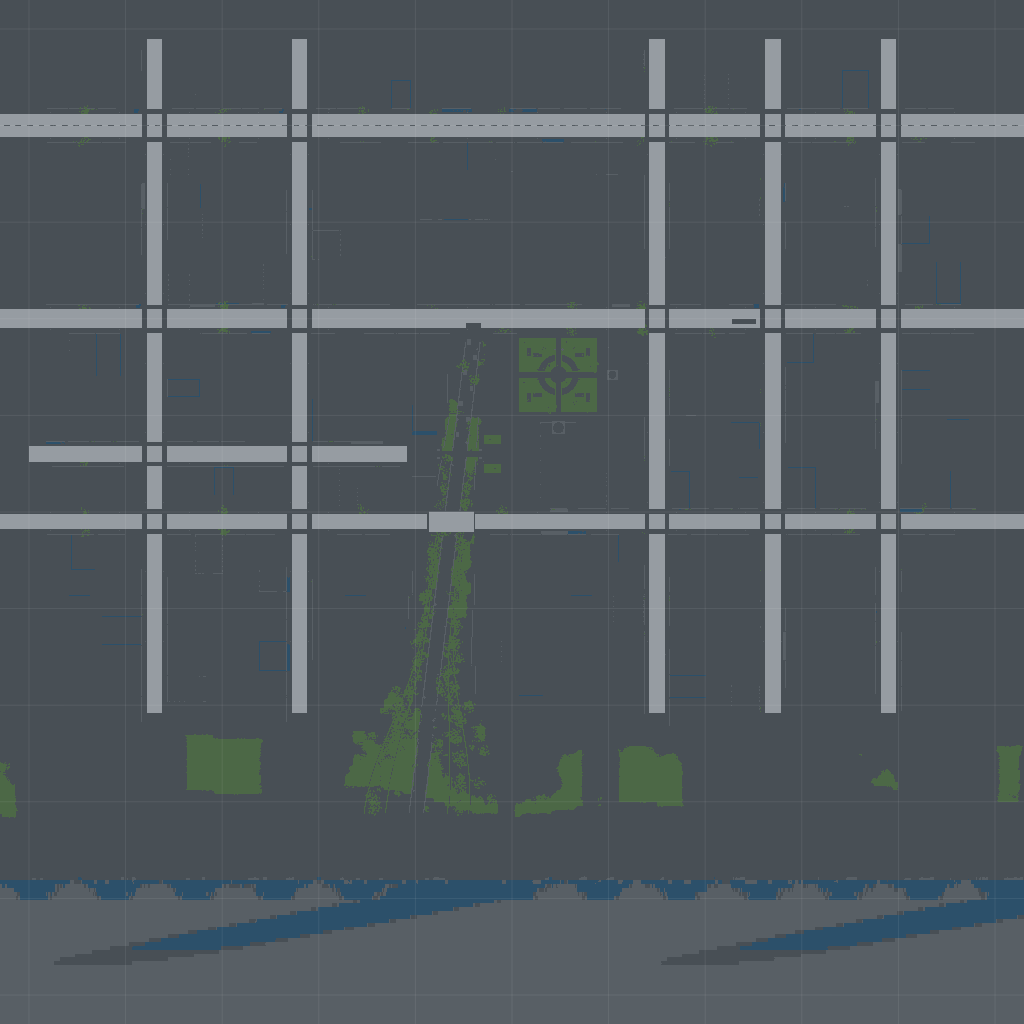
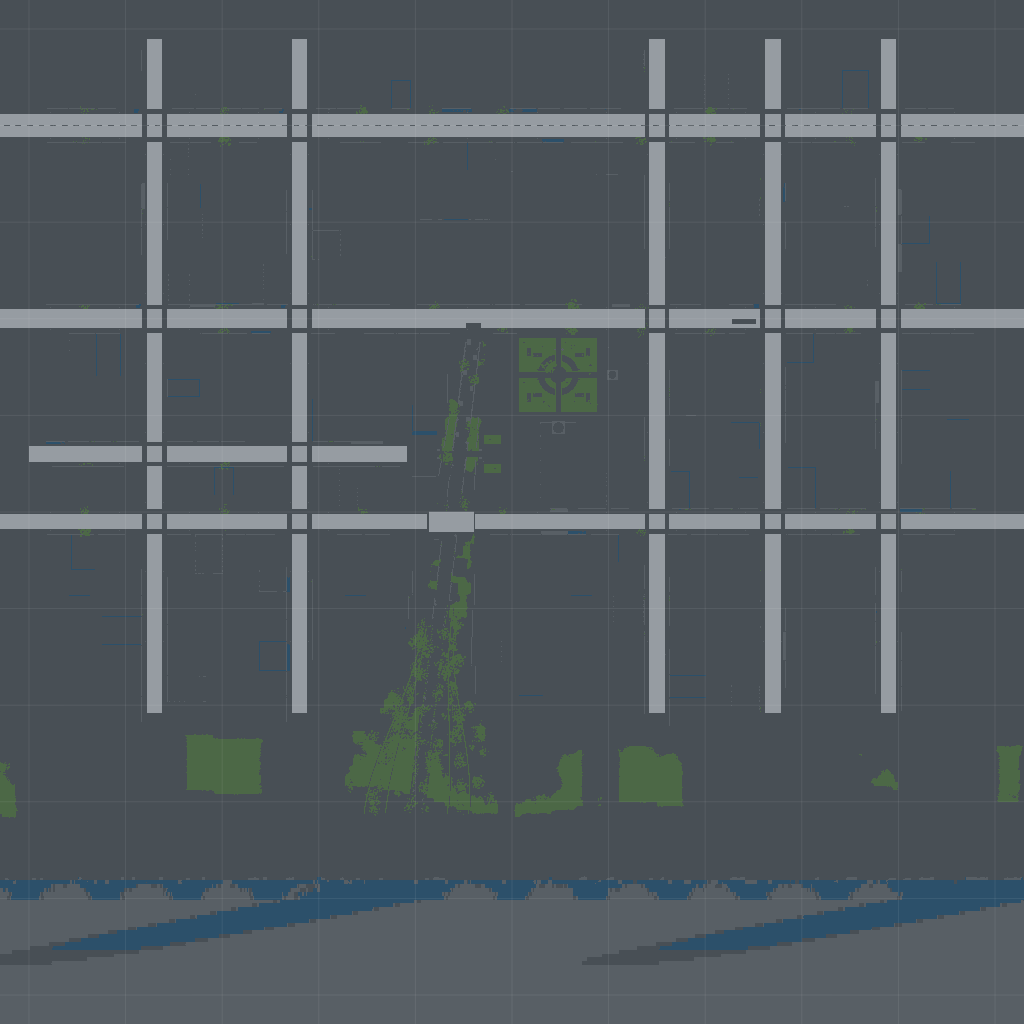
Bajada de Baños según Street View: adoquín de concreto, casonas a ras del camino, jardineras, canto rodado, líneas amarillas y puestos de artesanos
Claude-Session: https://claude.ai/code/session_01Gb2c1RtCEMNtPZBAUvxZ9S

diff --git a/client/src/world/barranco/bajada.ts b/client/src/world/barranco/bajada.ts
@@ -6,14 +6,9 @@ import { edgeZ, ravineCentre, ravineFloor, ravineHalf, type CoastDef } from '../
 import { bench, type Plants } from '../malecon/park';
 import { globeLamp } from './bridge';
 import { muralSpan, ravineOf, type BarrancoDef } from './layout';
+import { laneEdge, laneHouses, laneLine, run } from './bajadaLane';
 
 const UP = new THREE.Vector3(0, 1, 0);
-
-/** Box from a to c, `w` wide and `h` tall, aligned with the line between them. */
-function run(b: Builder, mat: string, a: THREE.Vector3, c: THREE.Vector3, w: number, h: number, collide = true): void {
-  const d = c.clone().sub(a), len = d.length();
-  b.box(mat, [w, h, len + 0.05], a.clone().lerp(c, 0.5), new THREE.Quaternion().setFromUnitVectors(new THREE.Vector3(0, 0, 1), d.normalize()), collide);
-}
 
 /** Street-art vault: a sun, faces in profile, birds and the lettering over the arch (canvas). */
 function muralTexture(): THREE.CanvasTexture {
@@ -42,30 +37,34 @@ function muralTexture(): THREE.CanvasTexture {
  * lamps, stone stairs up the planted banks, artisans' white stalls in the upper stretch, benches and trees, and the
  * street bridge whose vault is painted end to end. Returns the textured meshes (the vault mural).
  */
-export function bajadaDeBanos(b: Builder, hf: Heightfield, def: BarrancoDef, c: CoastDef, plants: Plants, lighting: Lighting): THREE.Object3D {
+export function bajadaDeBanos(b: Builder, hf: Heightfield, def: BarrancoDef, c: CoastDef, plants: Plants, lighting: Lighting, bb: Builder): THREE.Object3D {
   const r = ravineOf(c), mouth = edgeZ(c, r.x) + c.run, half = (r.floorHalf ?? 4) - 0.2, end = def.beachRoad.z - def.beachRoad.half;
   const centre: THREE.Vector2[] = [];
   for (let z = r.head - 8; z <= end; z += 1.5) centre.push(new THREE.Vector2(ravineCentre(r, Math.min(Math.max(z, r.head), mouth)), z));
   for (let k = 1; k < centre.length; k++) {
     const a = centre[k - 1], e = centre[k], fa = ravineFloor(c, r, Math.min(a.y, mouth)) + 0.06 - 0.25, fe = ravineFloor(c, r, Math.min(e.y, mouth)) + 0.06 - 0.25;
-    run(b, 'cobble', new THREE.Vector3(a.x, fa, a.y), new THREE.Vector3(e.x, fe, e.y), half * 2 + 0.9, 0.5);
+    run(b, 'pavers', new THREE.Vector3(a.x, fa, a.y), new THREE.Vector3(e.x, fe, e.y), half * 2 + 0.9, 0.5);
   }
-  for (const s of [-1, 1]) for (let k = 1; k < centre.length; k++) {
-    const a = centre[k - 1], e = centre[k], fa = ravineFloor(c, r, Math.min(a.y, mouth)) + 0.07, fe = ravineFloor(c, r, Math.min(e.y, mouth)) + 0.07;
-    run(b, 'stairStone', new THREE.Vector3(a.x + s * (half - 0.15), fa, a.y), new THREE.Vector3(e.x + s * (half - 0.15), fe, e.y), 0.3, 0.06, false);
-  }
-  const group = new THREE.Group(), m = muralSpan(c, def);
+  const group = new THREE.Group(), m = muralSpan(c, def), stairZ = [def.bridge.z - 9, def.bridge.z + 7, def.bridge.z + 26, def.bridge.z - 22], upper = def.bridge.z + 9;
+  const houses = laneHouses(bb, c, r, def, upper, (r.knee?.z ?? mouth - 30) - 4, [...stairZ, m.z, m.z + def.mural.half, m.z - def.mural.half]);
+  const housed = (z: number, zn: number, s: number) => houses.some((h) => h.s === s && h.z0 < zn && h.z1 > z);
   for (let z = r.head + 2, i = 0; z < mouth - 3; z += 4, i++) {
     const zn = z + 4, f = ravineFloor(c, r, z), fn = ravineFloor(c, r, zn);
     if (Math.abs(z - m.z) < def.mural.half + 3) continue;
     for (const s of [-1, 1]) {
-      const a = new THREE.Vector3(ravineCentre(r, z) + s * (half + 0.35), f + 0.9, z), e = new THREE.Vector3(ravineCentre(r, zn) + s * (half + 0.35), fn + 0.9, zn);
-      run(b, 'ochreWall', a.clone().setY(f + 0.4), e.clone().setY(fn + 0.4), 0.45, 2.4);
-      run(b, 'creamCornice', a.clone().setY(f + 1.65), e.clone().setY(fn + 1.65), 0.6, 0.1, false);
+      const a = new THREE.Vector3(ravineCentre(r, z) + s * (half + 0.35), f + 0.9, z), e = new THREE.Vector3(ravineCentre(r, zn) + s * (half + 0.35), fn + 0.9, zn), home = housed(z, zn, s);
+      const stairsHere = stairZ.map((sz, k) => [sz, k % 2 ? -1 : 1]).some(([sz, ss]) => ss === s && sz > z - 2.5 && sz < zn + 2.5);
+      if (stairsHere) laneLine(bb, c, r, z, zn, s, 0.12);
+      else if (z < upper) {
+        run(b, 'ochreWall', a.clone().setY(f + 0.4), e.clone().setY(fn + 0.4), 0.45, 2.4);
+        run(b, 'creamCornice', a.clone().setY(f + 1.65), e.clone().setY(fn + 1.65), 0.6, 0.1, false);
+      } else if (!home) laneEdge(bb, c, r, z, zn, s, i, plants);
+      if (!stairsHere) laneLine(bb, c, r, z, zn, s, z < upper || home ? 0.12 : 1.02);
       if (i % 3 === 1 && s === (i % 6 === 1 ? 1 : -1)) globeLamp(b, new THREE.Vector3(a.x - s * 0.7, f + 0.1, z));
       if (i % 7 === 4) bench(b, new THREE.Vector3(a.x - s * 0.9, f + 0.1, z + 1), s > 0 ? -Math.PI / 2 : Math.PI / 2);
       if (i % 7 === 4) plants.seats.push({ pos: new THREE.Vector3(a.x - s * 0.9, f + 0.55, z + 1), yaw: s > 0 ? -Math.PI / 2 : Math.PI / 2 });
       const bank = ravineHalf(c, r, z) - 2.5;
+      if (home) continue;
       if (i % 3 === s + 1) (i % 2 ? plants.trees : plants.palms).push(new THREE.Vector3(ravineCentre(r, z) + s * bank, hf.heightAt(ravineCentre(r, z) + s * bank, z), z));
       else if (bank > half + 3) {
         const bx = ravineCentre(r, z) + s * (half + 1.6 + (bank - half - 1.6) * ((i * 7) % 5) / 5), by = hf.heightAt(bx, z + 2);
@@ -75,8 +74,7 @@ export function bajadaDeBanos(b: Builder, hf: Heightfield, def: BarrancoDef, c: 
         }
         if (i % 2) plants.trees.push(new THREE.Vector3(bx, by, z - 1));
       }
-      const stairsHere = [[def.bridge.z - 9, 1], [def.bridge.z + 7, -1], [def.bridge.z + 26, 1], [def.bridge.z - 22, -1]].some(([sz, ss]) => ss === s && sz > z - 2.5 && sz < zn + 2.5);
-      if (!stairsHere && Math.abs(z - def.bridge.z) > 5) terrace(b, hf, c, r, z, zn, s, i);
+      if (!stairsHere && Math.abs(z - def.bridge.z) > 5) terrace(bb, hf, c, r, z, zn, s, i);
     }
     if (z < def.bridge.z - 4 && i % 2 === 0) stall(b, new THREE.Vector3(ravineCentre(r, z) + (i % 4 ? 1 : -1) * (half - 1.2), f + 0.1, z), i % 4 ? -1 : 1, plants, i);
   }
@@ -86,11 +84,20 @@ export function bajadaDeBanos(b: Builder, hf: Heightfield, def: BarrancoDef, c: 
   return group;
 }
 
-/** Artisan's stall: white canopy on four poles over a cloth-covered table, a vendor behind it. */
+/** Artisan's stall: white canopy on four poles over a table whose cloth hangs to the ground, crafts laid out on top, a vendor behind it. */
 function stall(b: Builder, at: THREE.Vector3, side: number, plants: Plants, i: number): void {
   for (const [x, z] of [[-0.9, -1.2], [0.9, -1.2], [-0.9, 1.2], [0.9, 1.2]]) b.box('alu', [0.05, 2.2, 0.05], at.clone().add(new THREE.Vector3(x, 1.1, z)), new THREE.Quaternion(), false);
   b.box('tentWhite', [2.0, 0.06, 2.6], at.clone().add(new THREE.Vector3(0, 2.25, 0)), new THREE.Quaternion(), false);
-  b.box(['awningRed', 'trimBlue', 'trimGreen'][i % 3], [1.6, 0.8, 2.2], at.clone().add(new THREE.Vector3(0, 0.4, 0)), new THREE.Quaternion());
+  const cloth = ['awningRed', 'trimBlue', 'trimGreen'][i % 3], q = new THREE.Quaternion();
+  b.box('trimBrown', [1.5, 0.05, 2.1], at.clone().add(new THREE.Vector3(0, 0.78, 0)), q);
+  b.box(cloth, [1.56, 0.02, 2.16], at.clone().add(new THREE.Vector3(0, 0.815, 0)), q, false);
+  for (const s of [-1, 1]) b.box(cloth, [0.02, 0.55, 2.16], at.clone().add(new THREE.Vector3(s * 0.78, 0.55, 0)), q, false);
+  for (const s of [-1, 1]) b.box(cloth, [1.56, 0.55, 0.02], at.clone().add(new THREE.Vector3(0, 0.55, s * 1.08)), q, false);
+  b.box('none', [1.5, 0.8, 2.1], at.clone().add(new THREE.Vector3(0, 0.4, 0)), q);
+  for (let k = 0; k < 9; k++) {
+    const w = 0.12 + ((k * 7 + i) % 5) * 0.04, h = 0.05 + ((k * 3 + i) % 4) * 0.05;
+    b.box(['trimWhite', 'awningRed', 'paint-ochre', 'trimBlue', 'paint-seagreen', 'flowers'][(k + i) % 6], [w, h, w * 1.2], at.clone().add(new THREE.Vector3(-0.5 + (k % 3) * 0.5, 0.83 + h / 2, -0.75 + Math.floor(k / 3) * 0.75)), new THREE.Quaternion().setFromAxisAngle(UP, k * 0.7), false);
+  }
   plants.standing.push({ pos: at.clone().add(new THREE.Vector3(side * -1.3, 0, 0)), yaw: side > 0 ? Math.PI / 2 : -Math.PI / 2, key: i % 3 ? 'civ_idle' : 'texting' });
 }
 
@@ -137,7 +144,7 @@ function terrace(b: Builder, hf: Heightfield, c: CoastDef, r: ReturnType<typeof 
   for (const k of [0.35, 0.68]) {
     const xa = ravineCentre(r, z) + s * (inner + (outer(z) - inner) * k), xb = ravineCentre(r, zn) + s * (inner + (outer(zn) - inner) * k);
     const a = new THREE.Vector3(xa, hf.heightAt(xa, z), z), e = new THREE.Vector3(xb, hf.heightAt(xb, zn), zn);
-    run(b, 'ochreWall', a.clone().setY(a.y - 0.4), e.clone().setY(e.y - 0.4), 0.3, 1.2);
+    run(b, 'pirca', a.clone().setY(a.y - 0.4), e.clone().setY(e.y - 0.4), 0.4, 1.3);
     run(b, 'hedge', a.clone().setY(a.y + 0.45).add(new THREE.Vector3(-s * 0.45, 0, 0)), e.clone().setY(e.y + 0.45).add(new THREE.Vector3(-s * 0.45, 0, 0)), 0.6, 0.55, false);
   }
   if (i % 3 !== 1) treesOnBank.push(new THREE.Vector3(ravineCentre(r, z) + s * (inner + (outer(z) - inner) * 0.52), 0, z + 2));

diff --git a/client/src/world/barranco/bajadaLane.ts b/client/src/world/barranco/bajadaLane.ts
@@ -1,0 +1,80 @@
+import * as THREE from 'three';
+import type { Builder } from '../buildingKit';
+import { ravineCentre, ravineFloor, type CoastDef } from '../coast';
+import type { Plants } from '../malecon/park';
+import { casona } from './casona';
+import { mulberry32 } from '../../core/rng';
+import type { BarrancoDef } from './layout';
+
+type Ravine = NonNullable<CoastDef['ravines']>[number];
+export interface HouseSpan { z0: number; z1: number; s: number }
+
+/** Box from a to c, `w` wide and `h` tall, aligned with the line between them. */
+export function run(b: Builder, mat: string, a: THREE.Vector3, c: THREE.Vector3, w: number, h: number, collide = true): void {
+  const d = c.clone().sub(a), len = d.length();
+  b.box(mat, [w, h, len + 0.05], a.clone().lerp(c, 0.5), new THREE.Quaternion().setFromUnitVectors(new THREE.Vector3(0, 0, 1), d.normalize()), collide);
+}
+
+/**
+ * Street View (2013) of the middle stretch: the lane runs between houses built into the banks — painted casonas of one
+ * or two storeys whose steps come down onto the pavers, a restaurant terrace here and there. Places them on both sides
+ * between the bridge and the knee of the ravine, clear of the stairways and the painted vault; returns their spans.
+ */
+export function laneHouses(b: Builder, c: CoastDef, r: Ravine, def: BarrancoDef, from: number, to: number, keepOut: number[]): HouseSpan[] {
+  const rand = mulberry32(def.seed + 404), half = (r.floorHalf ?? 4) - 0.2, spans: HouseSpan[] = [];
+  for (const s of [-1, 1]) {
+    let z = from + rand() * 4;
+    while (z < to) {
+      const w = 7.5 + rand() * 3.5, zc = z + w / 2;
+      if (zc + w / 2 > to) break;
+      if (keepOut.some((k) => Math.abs(k - zc) < w / 2 + 3) || rand() < 0.18) {
+        z += 3 + rand() * 3;
+        continue;
+      }
+      const slope = ravineCentre(r, zc + 1) - ravineCentre(r, zc), fx = ravineCentre(r, zc) + s * (half + 0.45);
+      casona(b, { x: fx, z: zc, y: ravineFloor(c, r, zc) + 0.06, facing: Math.atan2(-s, s * slope), w, d: 7, floors: rand() < 0.55 ? 1 : 2 }, rand);
+      spans.push({ z0: z - 1, z1: z + w + 1, s });
+      z += w + 1 + rand() * 2.5;
+    }
+  }
+  return spans;
+}
+
+/**
+ * Where no house fronts the lane: a low concrete kerb, a bed of soil with clipped shrubs, red-flowered bushes, an agave
+ * and now and then a tree with a whitewashed trunk, backed by a river-stone (canto rodado) retaining wall.
+ */
+export function laneEdge(b: Builder, c: CoastDef, r: Ravine, z: number, zn: number, s: number, i: number, plants: Plants): void {
+  const half = (r.floorHalf ?? 4) - 0.2, f = ravineFloor(c, r, z), fn = ravineFloor(c, r, zn);
+  const P = (zz: number, o: number, y: number) => new THREE.Vector3(ravineCentre(r, zz) + s * o, y, zz);
+  run(b, 'stairStone', P(z, half - 0.9, f + 0.1), P(zn, half - 0.9, fn + 0.1), 0.16, 0.2);
+  run(b, 'soilBed', P(z, half - 0.15, f + 0.07), P(zn, half - 0.15, fn + 0.07), 1.35, 0.16, false);
+  run(b, 'pirca', P(z, half + 0.75, f + 0.45), P(zn, half + 0.75, fn + 0.45), 0.7, 1.9);
+  const g = mulberry32(i * 31 + (s > 0 ? 7 : 3));
+  for (let k = 0; k < 3; k++) {
+    const t = (k + 0.3 + g() * 0.4) / 3, zz = z + (zn - z) * t, p = P(zz, half - 0.2 + (g() - 0.5) * 0.4, f + (fn - f) * t + 0.14), r0 = 0.3 + g() * 0.18;
+    const mat = (i + k) % 5 === 0 ? 'flowerRed' : k % 2 ? 'shrub' : 'hedge';
+    b.geometry(mat, new THREE.IcosahedronGeometry(r0, 1), new THREE.Matrix4().compose(p.setY(p.y + r0 * 0.55), new THREE.Quaternion().setFromEuler(new THREE.Euler(k, i, 0)), new THREE.Vector3(1.25, 0.85, 1.15)));
+  }
+  if (i % 3 === (s > 0 ? 0 : 2)) agave(b, P(z + 1.4, half - 0.3, f + 0.14));
+  if (i % 4 === (s > 0 ? 1 : 3)) {
+    const t = P(z + 2.6, half - 0.25, f + (fn - f) * 0.65 + 0.12);
+    plants.trees.push(t.clone());
+    b.geometry('trimWhite', new THREE.CylinderGeometry(0.27, 0.31, 1.3, 12), new THREE.Matrix4().makeTranslation(t.x, t.y + 0.65, t.z));
+  }
+}
+
+/** Yellow paint line along the pavers at the lane's edge (every stretch, houses included). */
+export function laneLine(b: Builder, c: CoastDef, r: Ravine, z: number, zn: number, s: number, inset: number): void {
+  const half = (r.floorHalf ?? 4) - 0.2, f = ravineFloor(c, r, z) + 0.068, fn = ravineFloor(c, r, zn) + 0.068;
+  run(b, 'laneYellow', new THREE.Vector3(ravineCentre(r, z) + s * (half - inset), f, z), new THREE.Vector3(ravineCentre(r, zn) + s * (half - inset), fn, zn), 0.09, 0.012, false);
+}
+
+/** An agave: a rosette of stiff, pointed grey-green leaves fanning out of the bed. */
+function agave(b: Builder, at: THREE.Vector3): void {
+  for (let k = 0; k < 11; k++) {
+    const yaw = k * 2.4, tilt = 0.35 + (k % 3) * 0.28, len = 0.55 + (k % 4) * 0.12;
+    const leaf = new THREE.ConeGeometry(0.07, len, 4).translate(0, len / 2, 0).scale(1, 1, 0.35);
+    b.geometry('agave', leaf, new THREE.Matrix4().compose(at, new THREE.Quaternion().setFromEuler(new THREE.Euler(tilt, yaw, 0, 'YXZ')), new THREE.Vector3(1, 1, 1)));
+  }
+}

diff --git a/client/src/world/barranco/pavers.ts b/client/src/world/barranco/pavers.ts
@@ -1,0 +1,53 @@
+import * as THREE from 'three';
+
+/**
+ * Grey concrete pavers of the Bajada de Baños (Street View 2013): 20 × 10 cm blocks laid in running bond with the long
+ * side down the lane, sand joints, a slight bevel, each block a touch lighter or darker, worn paler in the middle of
+ * the run and stained near the edges. One 2 m tile (1024 px) of colour and a normal map from the same height field.
+ */
+export function paverTextures(): { map: THREE.CanvasTexture; normalMap: THREE.CanvasTexture } {
+  const N = 1024, px = N / 2, bw = 0.1 * px, bl = 0.2 * px, joint = 2.2;
+  const col = new Uint8ClampedArray(N * N * 4), h = new Float32Array(N * N);
+  let s = 77;
+  const rnd = () => ((s = (s * 16807) % 2147483647) / 2147483647);
+  const tone = new Map<string, number>();
+  const k = (Math.PI * 2) / N, blob = (x: number, y: number) => Math.sin(x * k * 3 + Math.sin(y * k * 2) * 2) * Math.cos(y * k * 4 + x * k);
+  for (let y = 0; y < N; y++) {
+    const row = Math.floor(y / bl), fy = y - row * bl;
+    for (let x = 0; x < N; x++) {
+      const shift = row % 2 ? bw / 2 : 0, cx = Math.floor((x + shift) / bw), fx = (x + shift) - cx * bw;
+      const key = `${(cx + 20) % 20},${row}`;
+      if (!tone.has(key)) tone.set(key, rnd());
+      const t = tone.get(key)!, edge = Math.min(fx, bw - fx, fy, bl - fy);
+      const grit = (rnd() - 0.5) * 18, stain = blob(x, y) * 10;
+      let v: number, warm = 0;
+      if (edge < joint) {
+        v = 58 + rnd() * 14;
+        warm = 6;
+        h[y * N + x] = 0;
+      } else {
+        const bevel = Math.min(1, (edge - joint) / 3.5);
+        v = 104 + t * 34 + grit + stain - (1 - bevel) * 22;
+        warm = (t - 0.5) * 8;
+        h[y * N + x] = 0.35 + bevel * 0.65 + (rnd() - 0.5) * 0.04;
+      }
+      const i = (y * N + x) * 4;
+      col[i] = v + warm; col[i + 1] = v + warm * 0.4; col[i + 2] = v - warm * 0.3; col[i + 3] = 255;
+    }
+  }
+  const nrm = new Uint8ClampedArray(N * N * 4), at = (x: number, y: number) => h[((y + N) % N) * N + ((x + N) % N)];
+  for (let y = 0; y < N; y++) for (let x = 0; x < N; x++) {
+    const dx = (at(x + 1, y) - at(x - 1, y)) * 2.2, dy = (at(x, y + 1) - at(x, y - 1)) * 2.2, l = Math.hypot(dx, dy, 1), i = (y * N + x) * 4;
+    nrm[i] = (-dx / l * 0.5 + 0.5) * 255; nrm[i + 1] = (dy / l * 0.5 + 0.5) * 255; nrm[i + 2] = (1 / l * 0.5 + 0.5) * 255; nrm[i + 3] = 255;
+  }
+  const tex = (data: Uint8ClampedArray, srgb: boolean) => {
+    const c = Object.assign(document.createElement('canvas'), { width: N, height: N });
+    c.getContext('2d')!.putImageData(new ImageData(data, N, N), 0, 0);
+    const t = new THREE.CanvasTexture(c);
+    t.wrapS = t.wrapT = THREE.RepeatWrapping;
+    t.anisotropy = 8;
+    if (srgb) t.colorSpace = THREE.SRGBColorSpace;
+    return t;
+  };
+  return { map: tex(col, true), normalMap: tex(nrm, false) };
+}

diff --git a/client/src/world/barranco/materials.ts b/client/src/world/barranco/materials.ts
@@ -4,6 +4,7 @@ import { photo } from '../../render/photoTextures';
 import { concrete, plaster } from '../../render/urbanTextures';
 import { deck, rock, wood } from '../../render/textures';
 import { foliage } from '../malecon/textures';
+import { paverTextures } from './pavers';
 
 /** Casona wall paints seen on the photos: oxblood, cobalt, ochre, rose, cream, sea green, terracotta, white. */
 export const CASONA_PAINTS: [string, string][] = [
@@ -20,7 +21,8 @@ export function barrancoMaterials(lighting: Lighting): Record<string, THREE.Mate
   const pw = photo('paintWall') ?? plaster(), pl = plaster(), co = concrete(), wd = wood(), dk = deck(), rk = rock(), fo = foliage();
   const ph = (k: string) => photo(k) ?? rk;
   const cw = photo('casonaWall') ?? pw, hw = photo('humidWall') ?? pl, pwd = photo('paintedWood') ?? wd, bm = photo('beamWood') ?? wd, bp = photo('bridgePlanks') ?? dk;
-  const ps = photo('plinthStone') ?? co, st = photo('stucco') ?? co;
+  const ps = photo('plinthStone') ?? co, st = photo('stucco') ?? co, pv = paverTextures();
+  for (const t of [pv.map, pv.normalMap]) t.repeat.set(3, 3);
   const pbr = (t: { map: THREE.Texture | null; normalMap: THREE.Texture | null; roughnessMap?: THREE.Texture | null }) => ({ map: t.map, normalMap: t.normalMap, roughnessMap: t.roughnessMap ?? null });
   const m: Record<string, THREE.Material> = {
     ochreWall: std('ochreWall', { ...pbr(hw), color: '#d6a54a', roughness: 0.9 }),
@@ -33,6 +35,10 @@ export function barrancoMaterials(lighting: Lighting): Record<string, THREE.Mate
     bridgeDeck: std('bridgeDeck', { ...pbr(bp), color: '#c98a6a', roughness: 0.6 }),
     bridgeWood: std('bridgeWood', { ...pbr(bm), color: '#7a5642', roughness: 0.62 }),
     cobble: std('cobble', { ...pbr(photo('mossCobble') ?? ph('cobble')), roughness: 0.85 }),
+    pavers: std('pavers', { map: pv.map, normalMap: pv.normalMap, normalScale: new THREE.Vector2(0.8, 0.8), color: '#ffffff', roughness: 0.88 }),
+    pirca: std('pircaB', { ...pbr(ph('pirca')), color: '#d9d2c4', roughness: 0.95 }),
+    laneYellow: std('laneYellow', { color: '#d9b43a', roughness: 0.75 }),
+    agave: std('agave', { map: fo.map, color: '#6f8a6a', roughness: 0.8, side: THREE.DoubleSide }),
     stairStone: std('stairStone', { ...pbr(ps), color: '#d8d2c6', roughness: 0.85 }),
     paverRed: std('paverRed', { ...pbr(ph('terracotta')), color: '#ffffff', roughness: 0.8 }),
     roofTile: std('roofTileClay', { map: ph('roofTiles').map, normalMap: ph('roofTiles').normalMap, color: '#c07a55', roughness: 0.8 }),

diff --git a/client/src/world/barranco/index.ts b/client/src/world/barranco/index.ts
@@ -40,7 +40,7 @@ export function buildBarranco(hf: Heightfield, def: BarrancoDef, lighting: Light
   const group = new THREE.Group();
   suspiros(b, hf, bridgeSpan(c, def));
   bridgeEnds(b, hf, def, c, plants, rand);
-  group.add(bajadaDeBanos(t, hf, def, c, plants, lighting));
+  group.add(bajadaDeBanos(t, hf, def, c, plants, lighting, b));
   buildLandmarks(b, hf, def, plants, rand);
   const { station, trees, fronts } = buildStreets(b, def, c, plants, rand);
   streetLayer(t, def, c, fronts, rand);

diff --git a/CLAUDE.md b/CLAUDE.md
@@ -282,3 +282,4 @@ TPS de mundo abierto para PC en navegador, calidad visual gama media (referencia
 - Barrido con partidas automáticas en los 4 capítulos (sin errores de consola): atascos persistentes del bot = tramos del grafo de calles que cruzaban sólidos. `ai/navPrune.ts pruneGraph` (al cargar, tras el primer paso de física; `?rawnav` lo desactiva, `?navlog` detalla): corre 0,7–1,5 m los nodos que caen sobre un tronco o poste, descarta los que están dentro de algo grande y corta los tramos bloqueados a la cintura y al pecho en tres rayos paralelos (±0,45 m: un muro, no un árbol; sin contar el terreno), salvo cuando son la única conexión entre dos zonas (se conservan y se anotan en consola `[nav] blocked but only link`). Causas arregladas: cap. 3, el enlace automático unía la vereda de Av. Venezuela con el interior a través de la reja (`throughFence` en `campus/layout.ts`: solo en Puertas 1/2 y entradas vehiculares) y los caminos de estudiantes podían terminar fuera de la reja (`studentWalks`); cap. 4, los nodos del piso de la Bajada de Baños bajo el puente y la calle del mural tomaban la altura del tablero/calle (escalera imposible a través de la baranda) → altura del adoquín, y el borde de la quebrada ya no pasa bajo el extremo del puente. Humo del cañón tras ráfagas sostenidas (`fx/barrelSmoke.ts`: ≥ 4 disparos, volutas grises finas que suben del cañón hasta que se enfría). HUD en ventanas ≤ 960 px: el panel del objetivo y la alerta pasan arriba a la izquierda con ancho acotado (antes pisaban munición y ranuras). Debug `__game.graphAt(x, z, r)`.
 - Grafo de caminos sin tramos imposibles: `pruneGraph` ya no conserva un tramo que cruza un muro por ser la única conexión; primero busca un desvío de 1 o 2 puntos a un lado (hasta 12 m, sobre el piso real, también en desniveles como la escalera de Larcomar) y lo inserta en el grafo; si el lado aislado tiene ≤ 2 nodos (punta muerta tras una baranda o muro), se descarta. Cap. 2: 5 → 0 tramos bloqueados, cap. 3: 8 → 0. `StreetNav.nearest` prueba los 16 nodos más cercanos con línea libre (antes 6 → elegía uno tras la pared en rincones). Playtest de los caps. 2 y 3 sin atascos salvo un poste en la playa que los NPC rodean.
 - Choques con lo delgado (pedido del usuario): `world/breakables.ts` — baranda de tubo de la berma (ahora instanciada por tramo de 2 m), señales de tránsito (poste + placas) y árboles delgados (copa ancha de escala < 1,12; no palmeras, araucarias ni árboles grandes) se registran con su colisionador e instancias (`addBreakable`); antes del paso de física, `smash` (desde `Driving.drive`, reexportado por `carContacts`) barre la carrocería del auto que manejas a lo largo de su velocidad: si llega a lo que necesita cada cosa (1300 kg: baranda 2,2 m/s, poste 2,8, árbol 7,5; más pesado necesita menos), quita el colisionador, oculta las instancias y una copia cae girando sobre su pie en la dirección del auto con gravedad y un rebote; el auto pierde 4–20 % de velocidad y algo de vida. Sonidos propios (`audio/breakSound.ts snapSound`: poste = golpe + tañido metálico inarmónico + traqueteo al caer; baranda = tubo que se dobla con chirrido; árbol = chasquido, astillas, crujido y copa que azota el suelo). Berma: el auto ya no se detenía en el sardinel, lo paraba la baranda de 0,9 m (de 33 a 0 km/h). Veredas de la avenida del cap. 1 a 17 cm sobre la pista con pendiente transversal hacia las casas (antes 40–44 cm: ningún auto las subía). Choques: crujido de lata por micro-golpes (`crackle`, una fuente de ruido con muchas envolventes) en vez de bandas angostas que sonaban a silbido; resonancias más graves y cortas; ganancias bajadas (el choque fuerte saturaba con pico 4,0 → 1,0); roce con aspereza (modulación de amplitud por ruido lento) y cuerpo grave. Debug `window.__breakables.list(tipo)` (con `?shot`); prueba de sonido local `scripts/_snd.mjs` (OfflineAudioContext → WAV + pico/RMS). `minimaps.mjs` y `playtest.mjs` usan el Chromium del sistema si existe.
+- Bajada de Baños según Street View (recorrido de la cámara a pie de 2013, del mar al puente, cada ~20 m; `streetview.py` + caminata por `links`): piso de adoquín de concreto gris en aparejo corrido (`world/barranco/pavers.ts`: textura procedural 2 m de color + normal con juntas, bisel, tono por pieza y manchas periódicas; material `pavers`) en vez de adoquín de piedra claro; línea amarilla a lo largo de los bordes (`laneLine`). Bordes por tramo (`world/barranco/bajadaLane.ts`): arriba del puente siguen los muros ocres con faroles y puestos; entre el puente y el codo de la quebrada, casonas de 1–2 pisos a ras del camino a ambos lados, metidas en el talud y orientadas a la pendiente del eje (`laneHouses`, sin tapar escaleras ni la bóveda); donde no hay casa, sardinel de concreto, jardinera de tierra con arbustos, matas de flores rojas, agaves y árboles de tronco encalado, y muro de canto rodado (`laneEdge`, material `pirca`); terrazas de los taludes también de canto rodado. Las escaleras laterales ya no quedan tapadas por el muro del borde. Puestos de artesanos con mesa, mantel que cae y mercadería en vez de un cajón rojo. `bajadaDeBanos(..., bb)` recibe el `Builder` principal (escala de UV 0,5) para casas, piedra y bordes.
